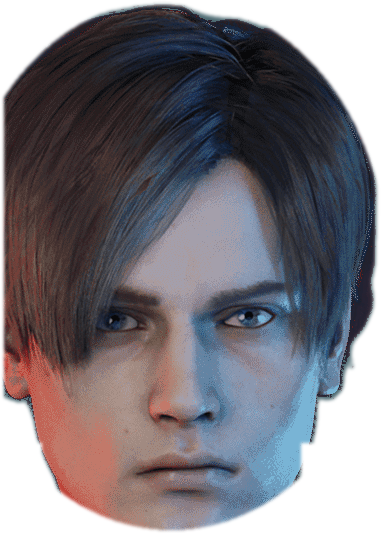
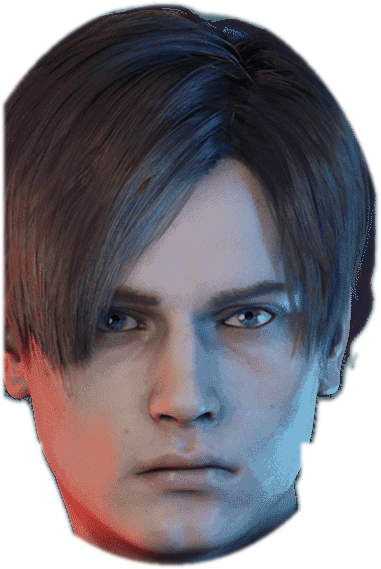
v3.54 : tête de Leon recadrée (menton entier)
Claude-Session: https://claude.ai/code/session_01WYc8bcxVUTnPR8YQxCHawi

diff --git a/public/index.html b/public/index.html
@@ -2771,6 +2771,7 @@
 
   /* ===== Version de l'appli et nouveautés (la plus récente en premier) ===== */
   const VERSIONS = [
+    ["3.54", "12 octobre 2026", ["Leon : la tête recadrée, le menton entier"]],
     ["3.53", "12 octobre 2026", ["Leon S. Kennedy : nouvelle tête (celle de Resident Evil 2)"]],
     ["3.52", "12 octobre 2026", ["Chris Redfield : nouvelle tête (d'après l'affiche), cheveux châtains de dos"]],
     ["3.51", "12 octobre 2026", ["Caserne de l'apocalypse : les héros de Resident Evil (Rebecca, Leon, Barry, Jill, Wesker, Chris), avec leur tête et leur tenue", "À l'entrée (écran « Bienvenue en 1998 ») : on choisit de jouer soi-même ou l'un des héros (les autres joueurs le voient), et jusqu'à deux équipiers", "Les équipiers suivent le joueur, tirent tout seuls sur le zombie le plus proche, ont 4 vies chacun et peuvent tomber ; les autres joueurs les voient aussi", "Administrateur : un bouton par héros pour régler sa tête, sa tenue, sa taille", "Les autres joueurs voient aussi la danse 🙌 Saut"]],

diff --git a/public/sw.js b/public/sw.js
@@ -1,7 +1,7 @@
 // Service worker : permet d'installer l'appli (Android, iPhone, PC) et de l'ouvrir sans réseau.
 // Les pages sont servies « réseau d'abord » (toujours la dernière version), les images « cache d'abord ».
 // Le courrier et le registre (/api/) ne sont jamais mis en cache.
-const CACHE = "caserne-nf-v171";
+const CACHE = "caserne-nf-v172";
 const SHELL = ["/", "/images/garde.jpg", "/images/pierre.jpg", "/images/escaliers/brique.jpg", "/manifest.webmanifest", "/icons/icon-192.png"];
 
 self.addEventListener("install", e => {
